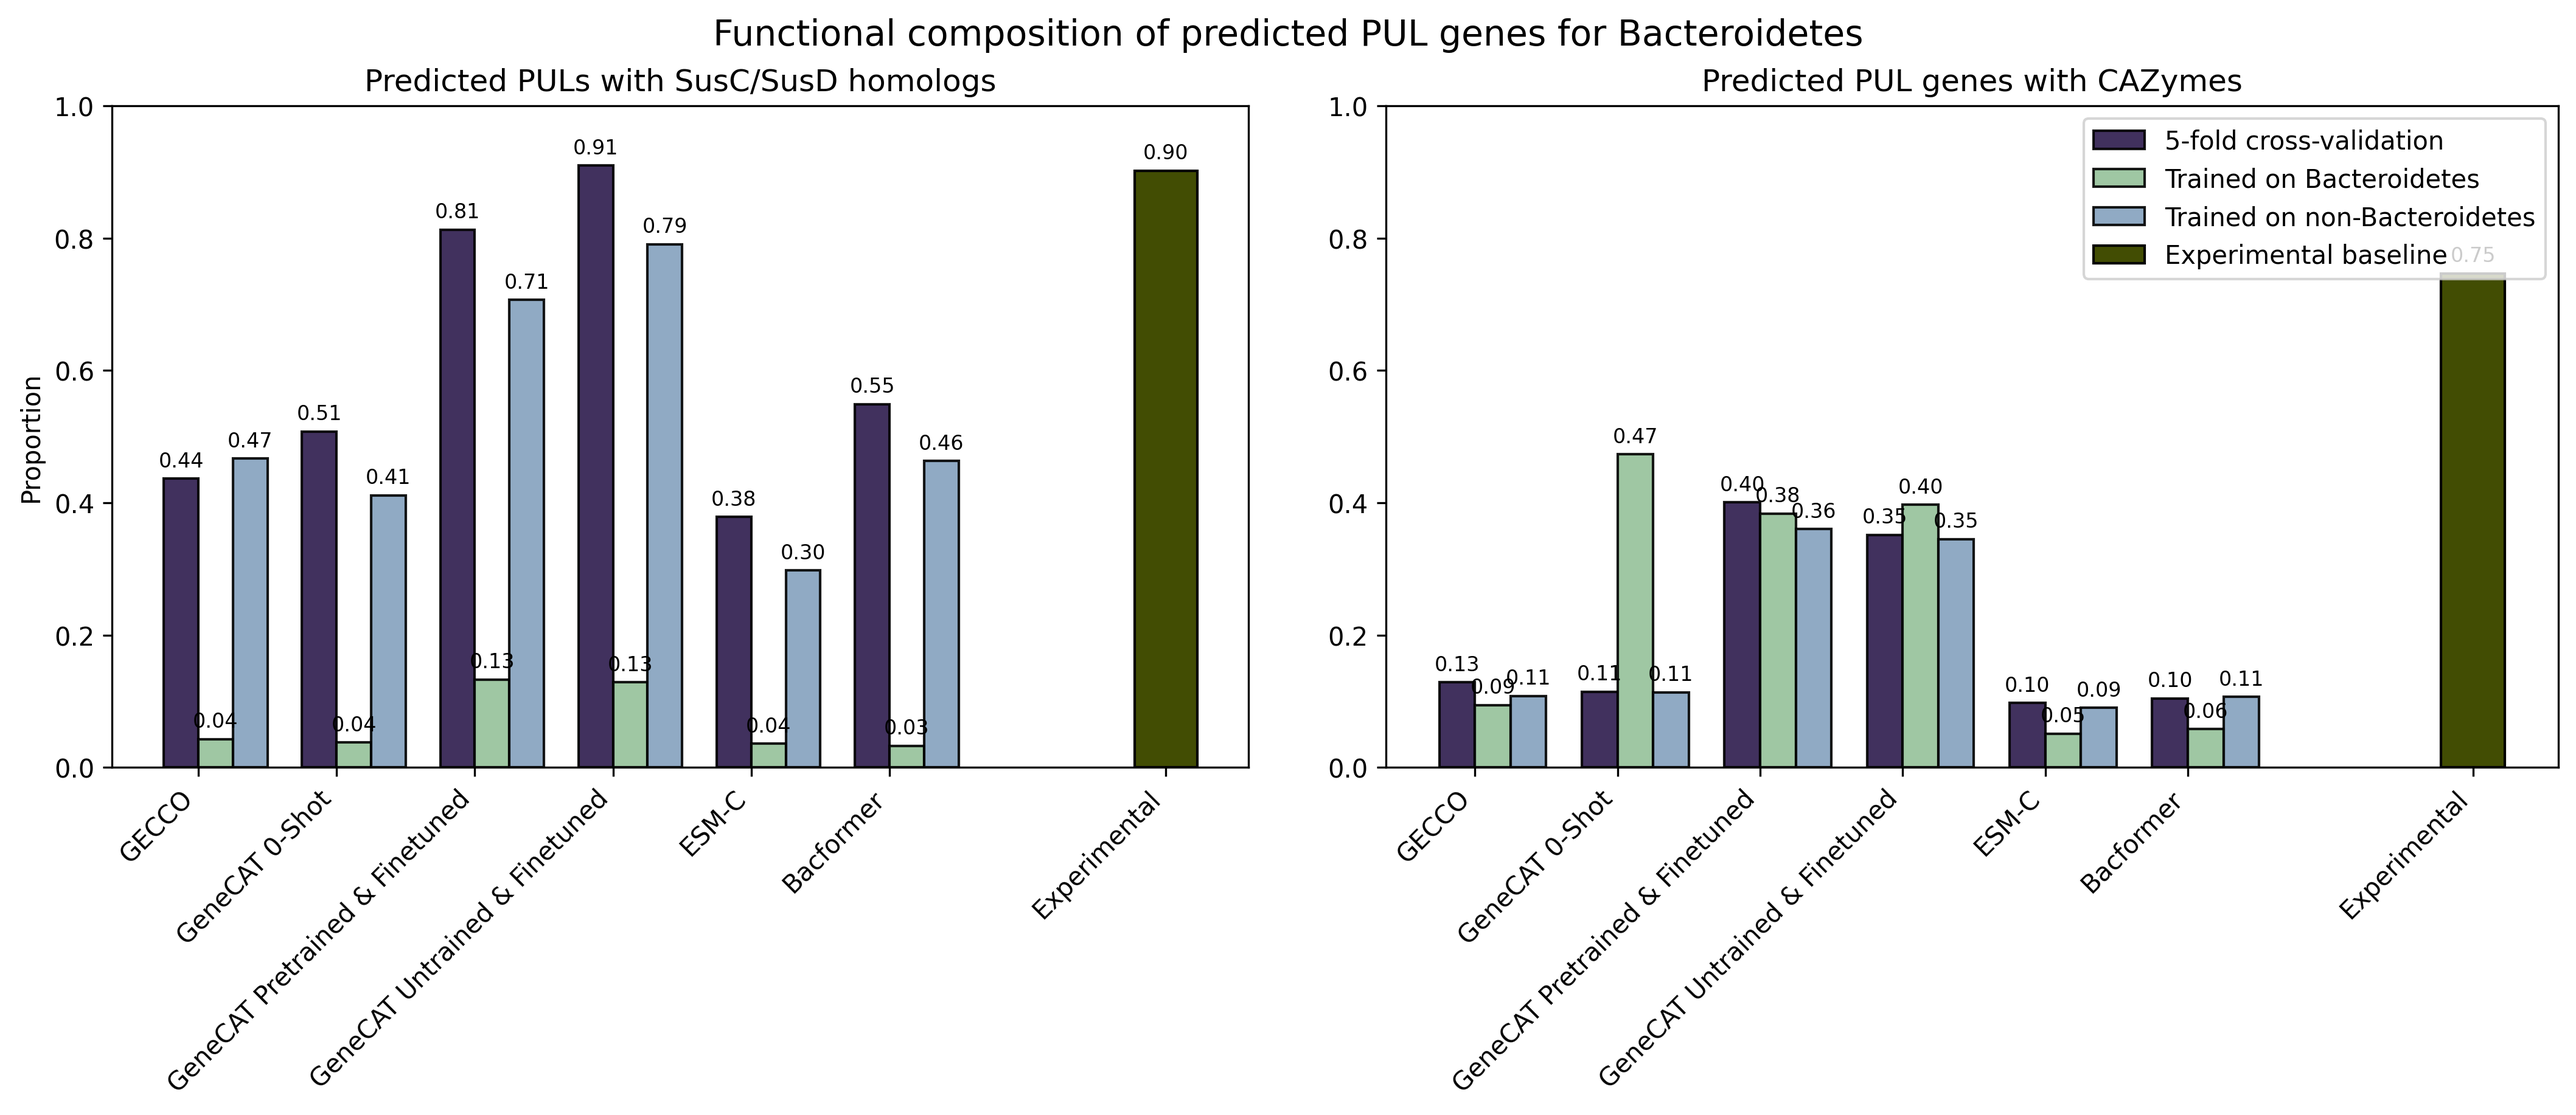
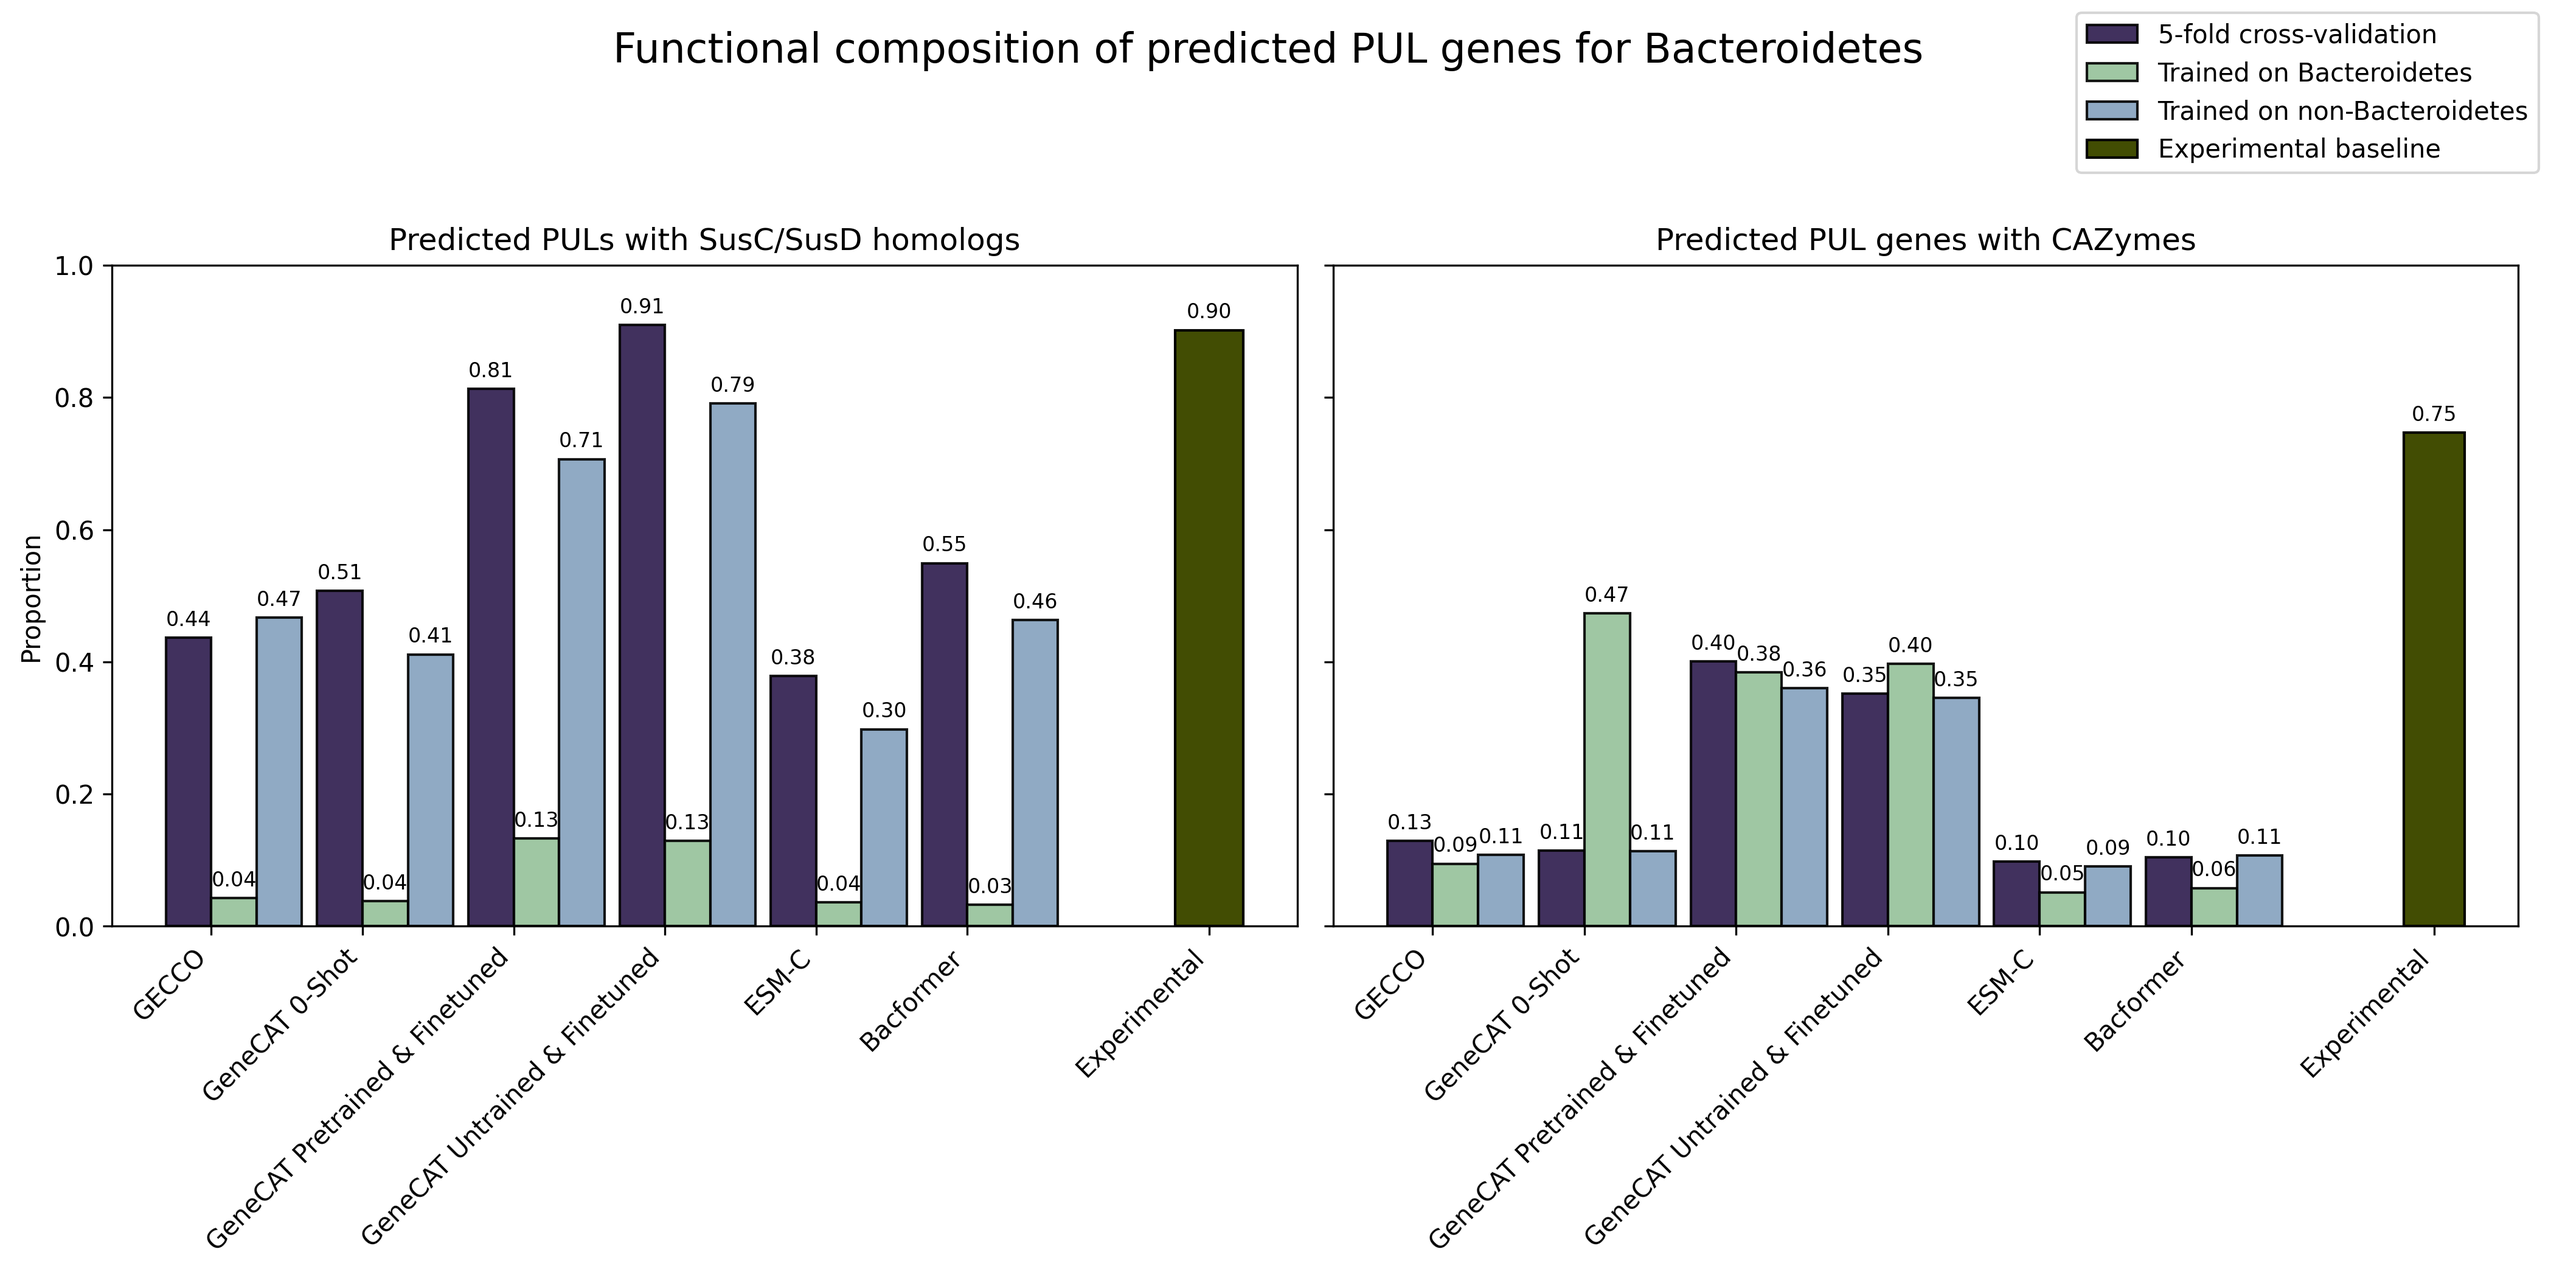
improve plot for suscd stuff

diff --git a/src/scripts/visualization/features_exploration.py b/src/scripts/visualization/features_exploration.py
@@ -88,32 +88,36 @@ def plot_functional_composition():
     fold_6_cazy_values = []
     fold_6_suscd_values = []
 
-    for model_name in all_models:
-        # get predicted puls for only bacteroidota species
-        bacteroidetes = all_puls.filter(polars.col("phylum").eq("Bacteroidota")).select("sequence_id").unique()
-        all_folds = polars.read_parquet(f"src/data/results/{model_name}/predicted_clusters.parquet").join(bacteroidetes, on="sequence_id", how="semi")
-        fold_6 = polars.read_parquet(f"src/data/results/{model_name}/predicted_clusters_6.parquet").join(bacteroidetes, on="sequence_id", how="semi")
-        fold_5 = polars.read_parquet(f"src/data/results/{model_name}/predicted_clusters_5.parquet").join(bacteroidetes, on="sequence_id", how="anti") # in this case only for non-bacteroidetes!
+    # for model_name in all_models:
+    #     # get predicted puls for only bacteroidota species
+    #     bacteroidetes = all_puls.filter(polars.col("phylum").eq("Bacteroidota")).select("sequence_id").unique()
+    #     all_folds = polars.read_parquet(f"src/data/results/{model_name}/predicted_clusters.parquet").join(bacteroidetes, on="sequence_id", how="semi")
+    #     fold_6 = polars.read_parquet(f"src/data/results/{model_name}/predicted_clusters_6.parquet").join(bacteroidetes, on="sequence_id", how="semi")
+    #     fold_5 = polars.read_parquet(f"src/data/results/{model_name}/predicted_clusters_5.parquet").join(bacteroidetes, on="sequence_id", how="anti") # in this case only for non-bacteroidetes!
 
-        # get frequency of susC and SusD domains in predicted clusters
-        all_folds_suscd_values.append(get_feature_counts(all_folds, genes, features_pfam, suscd))
-        fold_6_suscd_values.append(get_feature_counts(fold_6, genes, features_pfam, suscd))
-        fold_5_suscd_values.append(get_feature_counts(fold_5, genes, features_pfam, suscd))
+    #     # get frequency of susC and SusD domains in predicted clusters
+    #     all_folds_suscd_values.append(get_feature_counts(all_folds, genes, features_pfam, suscd))
+    #     fold_6_suscd_values.append(get_feature_counts(fold_6, genes, features_pfam, suscd))
+    #     fold_5_suscd_values.append(get_feature_counts(fold_5, genes, features_pfam, suscd))
 
-        # get proportion of cazy domains in predicted clusters
-        all_folds_cazy_values.append(get_feature_counts(all_folds, genes, features_cazy, cazy_features_selected, groups="protein_id"))
-        fold_6_cazy_values.append(get_feature_counts(fold_6, genes, features_cazy, cazy_features_selected, groups="protein_id"))
-        fold_5_cazy_values.append(get_feature_counts(fold_5, genes, features_cazy, cazy_features_selected, groups="protein_id"))
+    #     # get proportion of cazy domains in predicted clusters
+    #     all_folds_cazy_values.append(get_feature_counts(all_folds, genes, features_cazy, cazy_features_selected, groups="protein_id"))
+    #     fold_6_cazy_values.append(get_feature_counts(fold_6, genes, features_cazy, cazy_features_selected, groups="protein_id"))
+    #     fold_5_cazy_values.append(get_feature_counts(fold_5, genes, features_cazy, cazy_features_selected, groups="protein_id"))
 
-    # add one bar for experimental
-    experimental_bacteroidetes_puls = all_puls.filter(polars.col("phylum").eq("Bacteroidota"))
-    experimental_suscd = get_feature_counts(experimental_bacteroidetes_puls, genes, features_pfam, suscd)
-    experimental_cazy = get_feature_counts(experimental_bacteroidetes_puls, genes, features_cazy, cazy_features_selected)
+    # # add one bar for experimental
+    # experimental_bacteroidetes_puls = all_puls.filter(polars.col("phylum").eq("Bacteroidota"))
+    # experimental_suscd = get_feature_counts(experimental_bacteroidetes_puls, genes, features_pfam, suscd)
+    # experimental_cazy = get_feature_counts(experimental_bacteroidetes_puls, genes, features_cazy, cazy_features_selected)
 
-    folds_susc = [all_folds_suscd_values, fold_5_suscd_values, fold_6_suscd_values]
-    print(folds_susc, experimental_suscd)
-    folds_cazy = [all_folds_cazy_values, fold_5_cazy_values, fold_6_cazy_values]
-    print(folds_cazy, experimental_cazy)
+    # folds_susc = [all_folds_suscd_values, fold_5_suscd_values, fold_6_suscd_values]
+    # folds_cazy = [all_folds_cazy_values, fold_5_cazy_values, fold_6_cazy_values]
+
+    # values for testing
+    folds_susc = [[0.4364141765114663, 0.5076287349014622, 0.8129130655821047, 0.9097525473071325, 0.3785290415392915, 0.5492160278745645], [0.0429553264604811, 0.038058466629895205, 0.1327683615819209, 0.12899106002554278, 0.03585817888799355, 0.03257437261093568], [0.466839378238342, 0.4112690889942075, 0.7065843621399177, 0.7906446092413006, 0.29806959613919226, 0.46333454943451297]] 
+    folds_cazy = [[0.12881578015440187, 0.1147035348547774, 0.40081506773873776, 0.351681537405628, 0.09762204465849388, 0.10426185926725928], [0.09456595047692457, 0.4731404958677686, 0.38374178123132097, 0.39692540322580644, 0.05138368405880657, 0.057838222017326496], [0.1079622444843361, 0.11368445802962615, 0.3601140955550273, 0.3452198789169051, 0.09029398925771982, 0.10679391047489208]]
+    experimental_suscd = 0.9018987341772152
+    experimental_cazy = 0.7468354430379747
 
     fold_labels = ["5-fold cross-validation", "Trained on Bacteroidetes", "Trained on non-Bacteroidetes"]
     colors = [Cork_7[0], Cork_7[4], Cork_7[2]]
@@ -121,10 +125,7 @@ def plot_functional_composition():
     baseline_x = len(all_models) + 0.6
 
     width = 0.3
-    fig = plt.figure(figsize=(14, 6), constrained_layout=True)
-    subfig_left, subfig_right = fig.subfigures(1, 2, wspace=0.05)
-    ax1 = subfig_left.subplots()
-    ax2 = subfig_right.subplots()
+    fig, (ax1, ax2), = plt.subplots(1, 2, figsize=(14, 7), sharey=True)
 
     # SusC/SusD
     # model predictions
@@ -163,7 +164,7 @@ def plot_functional_composition():
             x + (i - 0.5) * width,
             folds_cazy[i],
             width=width,
-            label=fold_labels[i],
+#            label=fold_labels[i],
             color=colors[i],
             edgecolor="black",
             alpha=0.9
@@ -177,7 +178,7 @@ def plot_functional_composition():
         width=0.4,
         color=Cork_7[-1],
         edgecolor="black",
-        label="Experimental baseline"
+#        label="Experimental baseline"
     )
     ax2.bar_label(baseline_bar, fmt="%.2f", padding=3, fontsize=8)
     ax2.set_xticks(list(x)+[baseline_x])
@@ -185,9 +186,9 @@ def plot_functional_composition():
     ax2.set_ylim(0, 1)
     ax2.set_title("Predicted PUL genes with CAZymes")
 
-    ax2.legend(loc="upper right")
-
-    fig.suptitle("Functional composition of predicted PUL genes for Bacteroidetes", fontsize=14)
+    fig.suptitle("Functional composition of predicted PUL genes for Bacteroidetes", fontsize=16)
+    fig.legend(loc="upper right")
+    fig.tight_layout(rect=[0, 0, 1, 0.90])
     fig.savefig(
         "results/plots/susc_susd_and_cazy_frequency.png",
         dpi=300,
